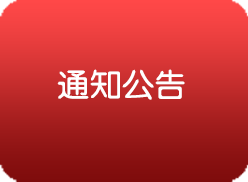
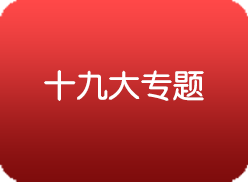
更换图片链接

Changed region(s): [[0.1694, 0.3846, 0.8185, 0.5769]]

diff --git a/views/building.html b/views/building.html
@@ -87,12 +87,14 @@
 
             focusPos: 0,
             menuPosArray: [
-                {url: "more.html?resourceId=" + paramObj.buildingResourceIdArray[1].resourceId + "&subject=building&backUrl=" + encodeURIComponent(window.location.href)},
+//                {url: "more.html?resourceId=" + paramObj.buildingResourceIdArray[1].resourceId + "&subject=building&backUrl=" + encodeURIComponent(window.location.href)},
+                {url: "http://10.215.0.141/fujiandangjian/shipinhuiyi/ddsy.html?cId=783&IP=192.168.12.65&port=8080"},
                 {url: "more.html?resourceId=" + paramObj.buildingResourceIdArray[2].resourceId + "&subject=building&backUrl=" + encodeURIComponent(window.location.href)},
                 {url: "more.html?resourceId=" + paramObj.buildingResourceIdArray[3].resourceId + "&subject=building&backUrl=" + encodeURIComponent(window.location.href)},
                 {url: "more.html?resourceId=" + paramObj.buildingResourceIdArray[4].resourceId + "&subject=building&backUrl=" + encodeURIComponent(window.location.href)},
                 {url: "more.html?resourceId=" + paramObj.buildingResourceIdArray[5].resourceId + "&subject=building&backUrl=" + encodeURIComponent(window.location.href)},
-                {url: "more.html?resourceId=" + paramObj.buildingResourceIdArray[6].resourceId + "&subject=building&backUrl=" + encodeURIComponent(window.location.href)}
+//                {url: "more.html?resourceId=" + paramObj.buildingResourceIdArray[6].resourceId + "&subject=building&backUrl=" + encodeURIComponent(window.location.href)}
+                {url: "http://10.215.0.141/fujiandangjian/lxyz.html?cId=787&IP=192.168.12.65&port=8080"}
             ]
             ,
 
@@ -103,17 +105,17 @@
 
             focusOn: function () {
 
-                $("building_menu_item_text_" + this.focusPos).style.background =
+                document.getElementById("building_menu_item_text_" + this.focusPos).style.background =
                     "url(../images/building/building_highlight.png) center no-repeat";
-                $("building_menu_item_text_" + this.focusPos).style.color = "#FFF";
+                document.getElementById("building_menu_item_text_" + this.focusPos).style.color = "#FFF";
 
             }
             ,
 
             focusOut: function () {
 
-                $("building_menu_item_text_" + this.focusPos).style.background = "";
-                $("building_menu_item_text_" + this.focusPos).style.color = "#000";
+                document.getElementById("building_menu_item_text_" + this.focusPos).style.background = "";
+                document.getElementById("building_menu_item_text_" + this.focusPos).style.color = "#000";
             }
             ,
 
@@ -173,7 +175,8 @@
                     top: 255,
                     width: 255,
                     height: 189,
-                    url: "more.html?resourceId=" + paramObj.buildingResourceIdArray[7].resourceId + "&backUrl=" + encodeURIComponent(window.location.href)
+//                    url: "more.html?resourceId=" + paramObj.buildingResourceIdArray[7].resourceId + "&backUrl=" + encodeURIComponent(window.location.href)
+                    url: "http://10.215.0.141/fujiandangjian/shipinhuiyi/qgdyyj/index.html?cId=788&IP=192.168.12.65&port=8080"
                 },
                 {
                     left: 883,
@@ -187,15 +190,16 @@
                     top: 448,
                     width: 255,
                     height: 189,
-                    url: "more.html?resourceId=" + paramObj.buildingResourceIdArray[9].resourceId + "&backUrl=" + encodeURIComponent(window.location.href)
+//                    url: "more.html?resourceId=" + paramObj.buildingResourceIdArray[9].resourceId + "&backUrl=" + encodeURIComponent(window.location.href)
+                    url: "http://10.215.0.141/fujiandangjian/qgdyjy.html?cId=793&IP=192.168.12.65&port=8080"
                 },
                 {
                     left: 883,
                     top: 448,
                     width: 255,
                     height: 189,
-//                    url: "http://10.215.0.141/fujiandangjian/shipinhuiyi/qgdyyj/index.html?cId=788&IP=192.168.12.65&port=8080"
-                    url: "more.html?resourceId=" + paramObj.buildingResourceIdArray[10].resourceId + "&backUrl=" + encodeURIComponent(window.location.href)
+//                    url: "more.html?resourceId=" + paramObj.buildingResourceIdArray[10].resourceId + "&backUrl=" + encodeURIComponent(window.location.href)
+                    url: "http://vod.fjgdwl.com:80/ddh2017/index.html"
                 }
             ]
             ,
@@ -206,7 +210,7 @@
 
             focusOn: function () {
 
-                $("self_ad_focus").style.visibility = "visible";
+                document.getElementById("self_ad_focus").style.visibility = "visible";
 
                 var _num = 0;
 
